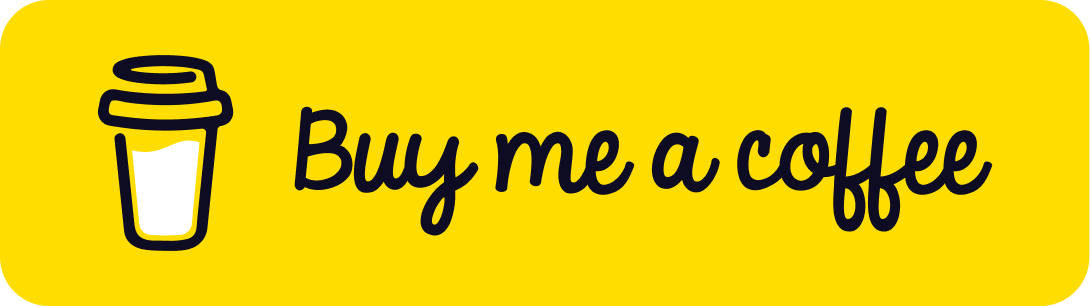
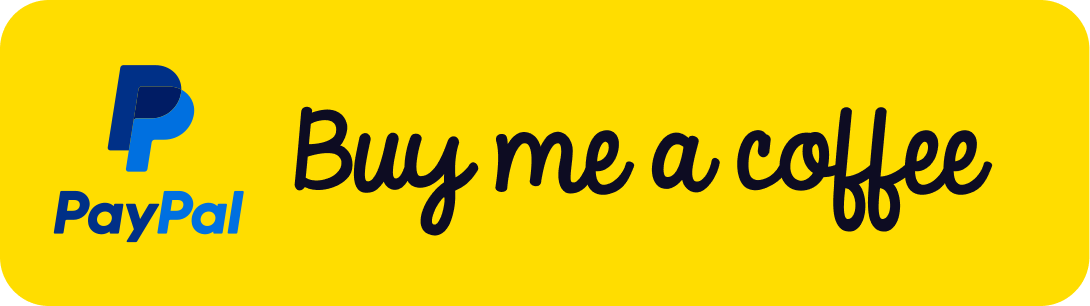
Fix README.md (Release Linking, Donate Button)

Changed region(s): [[0.0312, 0.1765, 0.2495, 0.8235]]

diff --git a/README.md b/README.md
@@ -32,30 +32,12 @@
 # Installation
 
 <p width="100%">
-    <a href="https://github.com/mewcrazy/Stripchat-Enhanced/raw/refs/heads/main/extensions/chrome.crx"><img width="206" src="https://github.com/mewcrazy/Stripchat-Enhanced/raw/main/img/get-it-for-chrome.png"></a>
-    <a href="https://github.com/mewcrazy/Stripchat-Enhanced/raw/refs/heads/main/extensions/firefox.zip"><img width="206" src="https://github.com/mewcrazy/Stripchat-Enhanced/raw/main/img/get-it-for-firefox.png"></a>
-    <a href="https://github.com/mewcrazy/Stripchat-Enhanced/raw/refs/heads/main/extensions/opera.crx"><img width="206" src="https://github.com/mewcrazy/Stripchat-Enhanced/raw/main/img/get-it-for-opera.png"></a>
+    <a href="https://github.com/mewcrazy/Stripchat-Enhanced/releases/latest/download/chrome.crx"><img width="206" src="https://github.com/mewcrazy/Stripchat-Enhanced/raw/main/img/get-it-for-chrome.png"></a>
+    <a href="https://github.com/mewcrazy/Stripchat-Enhanced/releases/latest/download/firefox.zip"><img width="206" src="https://github.com/mewcrazy/Stripchat-Enhanced/raw/main/img/get-it-for-firefox.png"></a>
+    <a href="https://github.com/mewcrazy/Stripchat-Enhanced/releases/latest/download/opera.crx"><img width="206" src="https://github.com/mewcrazy/Stripchat-Enhanced/raw/main/img/get-it-for-opera.png"></a>
 </p>
-We are working on dedicated Edge, Firefox and Chrome Extensions. Above is the preview of the Chrome Extension, but we strongly recommend to use a User Script Manager for now. The script was made in ViolentMonkey, but should work in TamperMonkey and GreaseMonkey as well.
 
-- [TamperMonkey](https://www.tampermonkey.net/) <sub>(Chrome, Microsoft Edge, Firefox, Safari, Opera Next)</sub>
-- [ViolentMonkey](https://violentmonkey.github.io/) <sub>(Chrome, Firefox, Microsoft Edge)</sub>
-- <s>[GreaseMonkey](https://www.greasespot.net/)</s> <sub>(Firefox; currently unsupported)</sub>
-
-Please note that this script requires an API Key for the Google Cloud Translation API. Simply log in your Google account, and create a New Project for the Cloud Translation API. After you can click on "Login Credentials" and create a new API Key which you can use in this script.
-
-### ViolentMonkey
-1. Simply click on our script file [/deploy/stripchat-enhanced.user.js](https://mewcrazy.github.io/Stripchat-Enhanced/deploy/stripchat-enhanced.user.js) and it should automatically get recognized by ViolentMonkey.
-1. Open the ViolentMonkey Dashboard of your User Script Manager (ViolentMonkey, TamperMonkey or GreaseMonkey)
-2. Click on + (New) -> Install by URL
-3. Manually enter the URL to the plugins file in this repository: `https://mewcrazy.github.io/Stripchat-Enhanced/deploy/stripchat-enhanced.user.js`
-
-### TamperMonkey <sub>("Allow User Scripts" toggle in the Extension's settings needs to be enabled.)</sub>
-1. Click the TamperMonkey Extension Icon and "Create a new script..."
-2. Copy paste the contents of [`https://mewcrazy.github.io/Stripchat-Enhanced/deploy/stripchat-enhanced.user.js`](https://mewcrazy.github.io/Stripchat-Enhanced/deploy/Stripchat-Enhanced.user.js) into the editor and Save.
-
-### GreaseMonkey
-Currently unsupported. To support new version 4.0+ of GreaseMonkey we would need to make major changes.
+Please note that this extension requires your own API Key for the Google Cloud Translation API. Simply log in your Google account, and create a New Project for the Cloud Translation API. After you can click on "Login Credentials" and create a new API Key which you can use in this script.
 
 ## Language list
 Stripchat Enhanced supports all available languages offered by Google's Cloud Translation API, in total *123 languages*.
@@ -213,9 +195,7 @@ We welcome any contributions! If you're having ideas or improvements to StripCha
 Thanks to [PotPlayer](https://potplayer.info) for the innovative idea of opening a video in fullscreen with a simple middle mouse click.
 Thanks to [Wiktionary](https://en.wiktionary.org/wiki/Wiktionary:Language_flags_list) for the curated list of language flags.
 
----
-
 <p>
   <span align="left">Inspired by <a href="//stripchat.com" target="_blank">StripChat</a> and made with ❤ in Düsseldorf, Germany.</span>
-  <a href="https://www.paypal.com/donate/?hosted_button_id=UEUQP2P24Y98S" target="_blank" align="right"><img width="206" src="https://raw.githubusercontent.com/mewcrazy/Stripchat-Enhanced/refs/heads/0.4.9/img/donate-button.png"></a>
+  <a href="https://www.paypal.com/donate/?hosted_button_id=UEUQP2P24Y98S" target="_blank" align="right"><img align="right" width="206" src="https://raw.githubusercontent.com/mewcrazy/Stripchat-Enhanced/refs/heads/0.5.0/img/donate-button.png"></a>
 </p>
